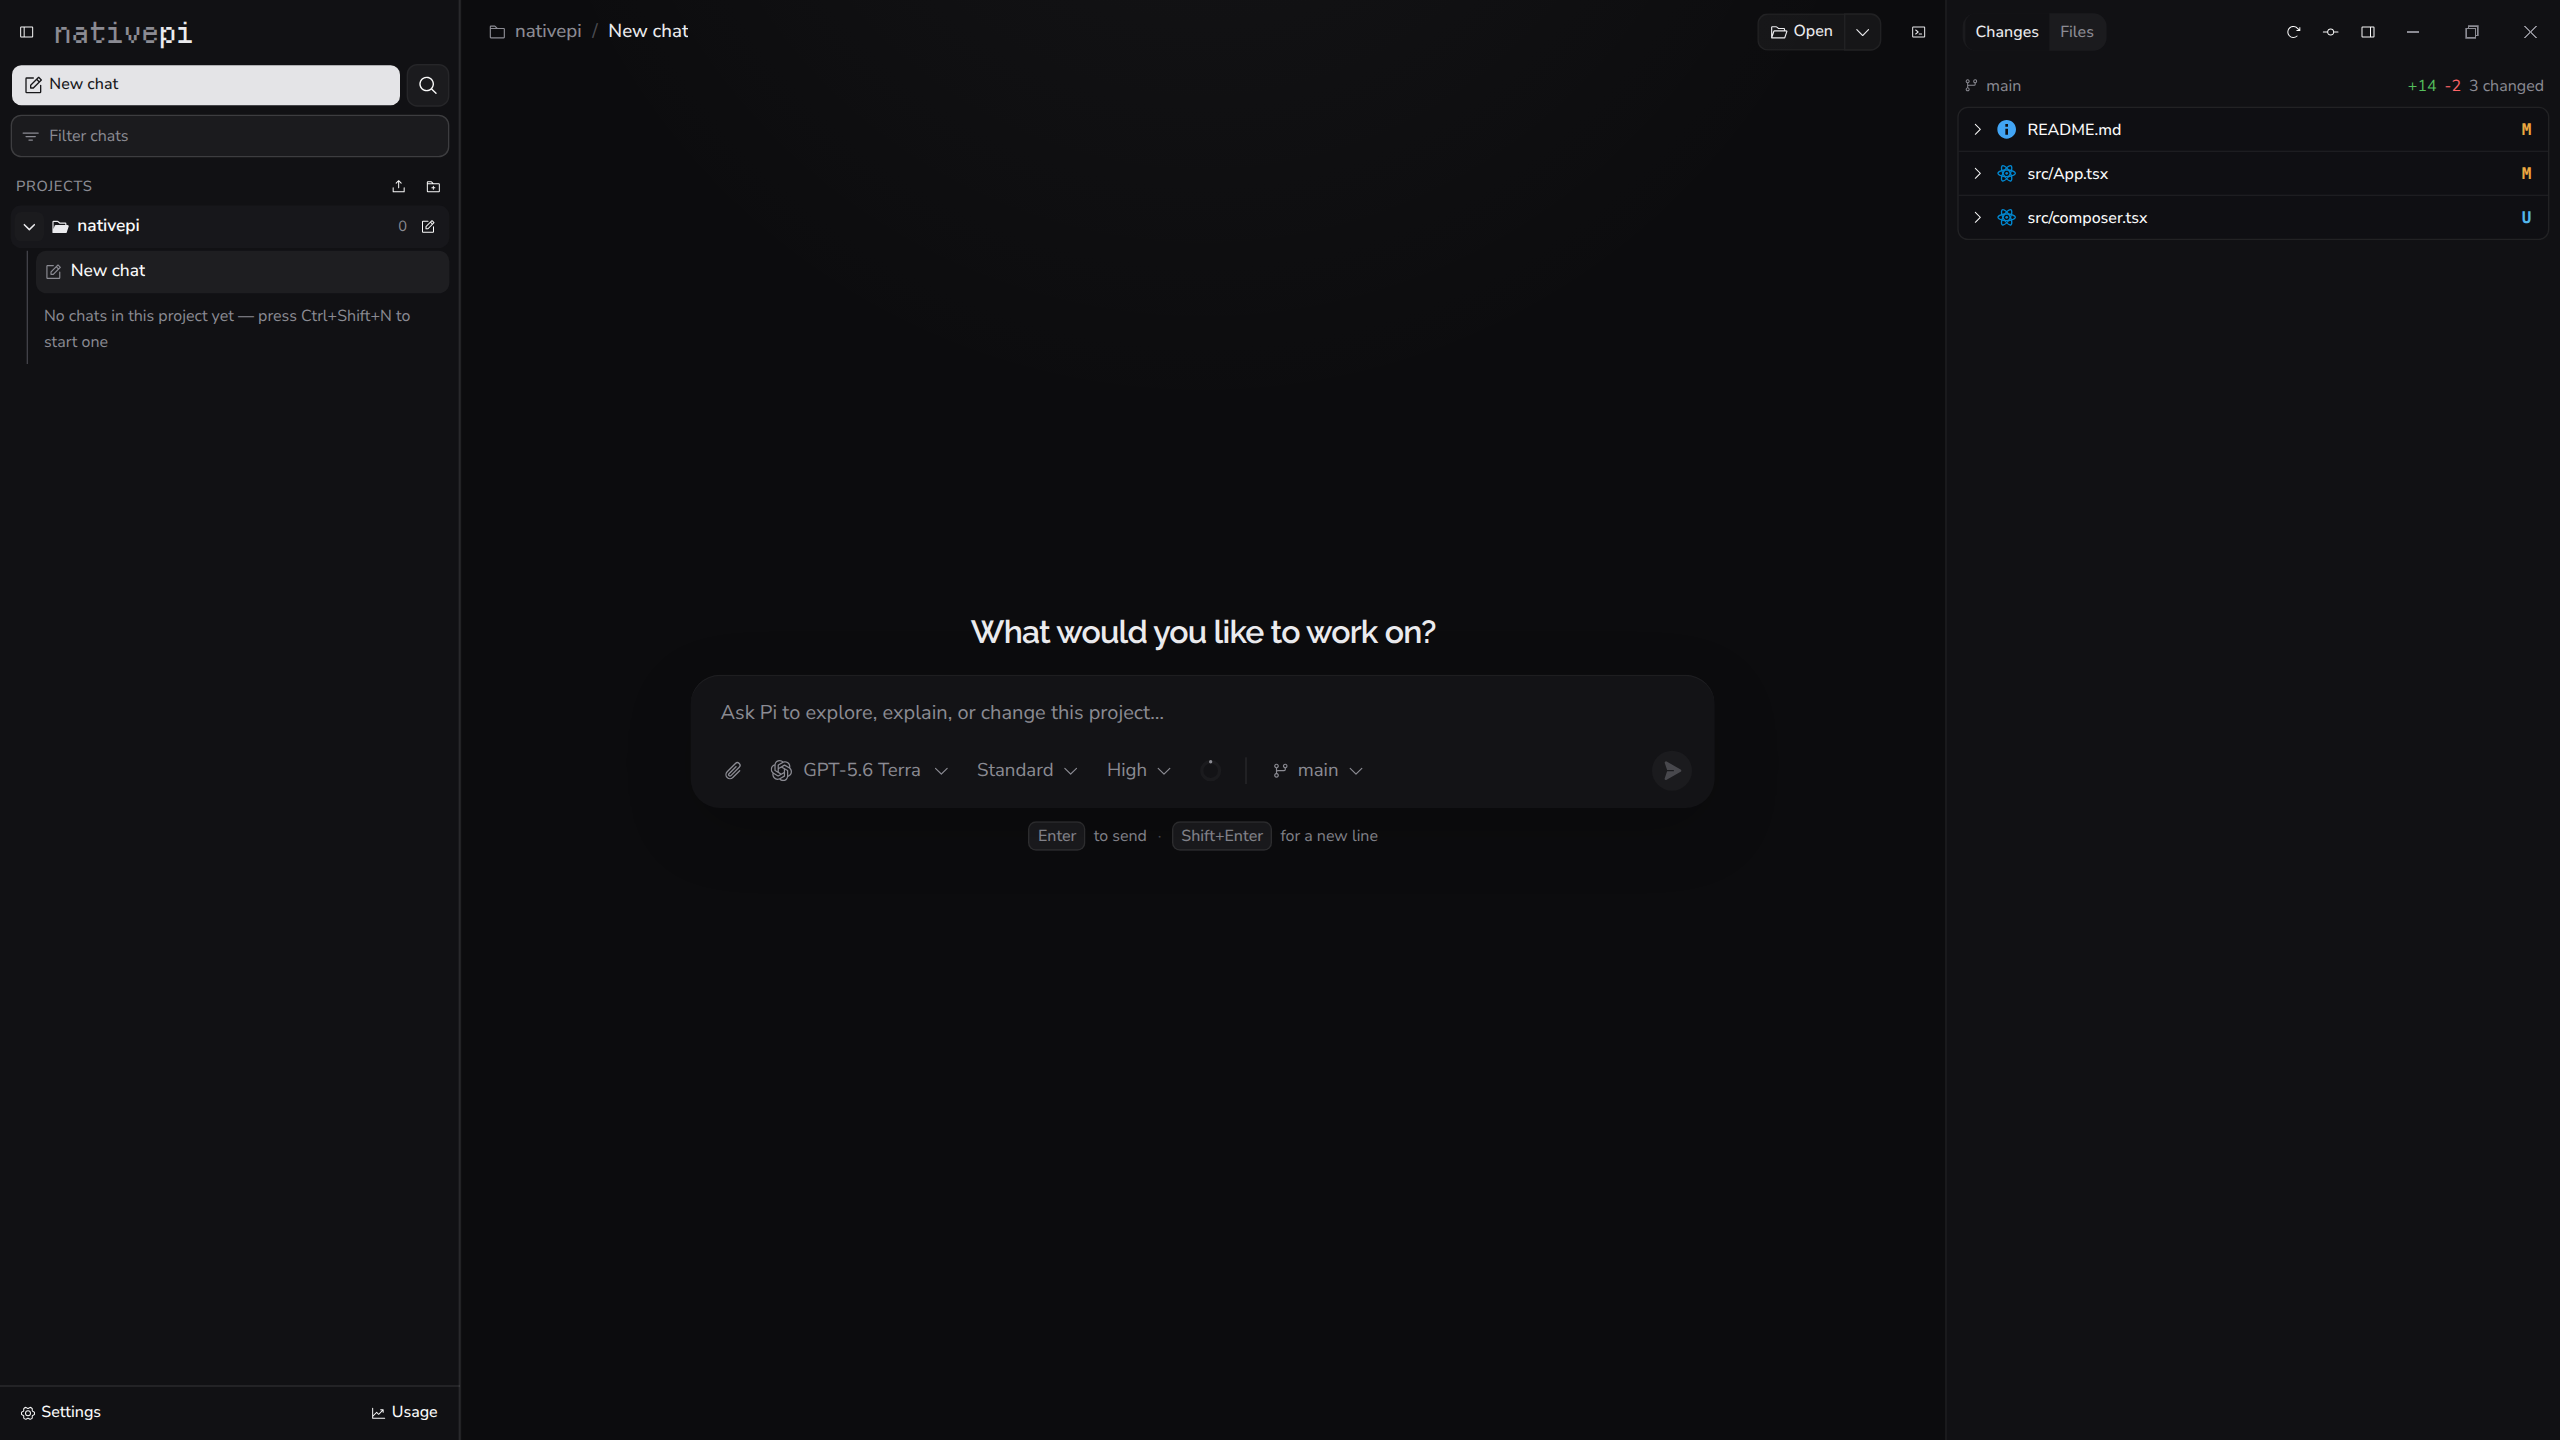
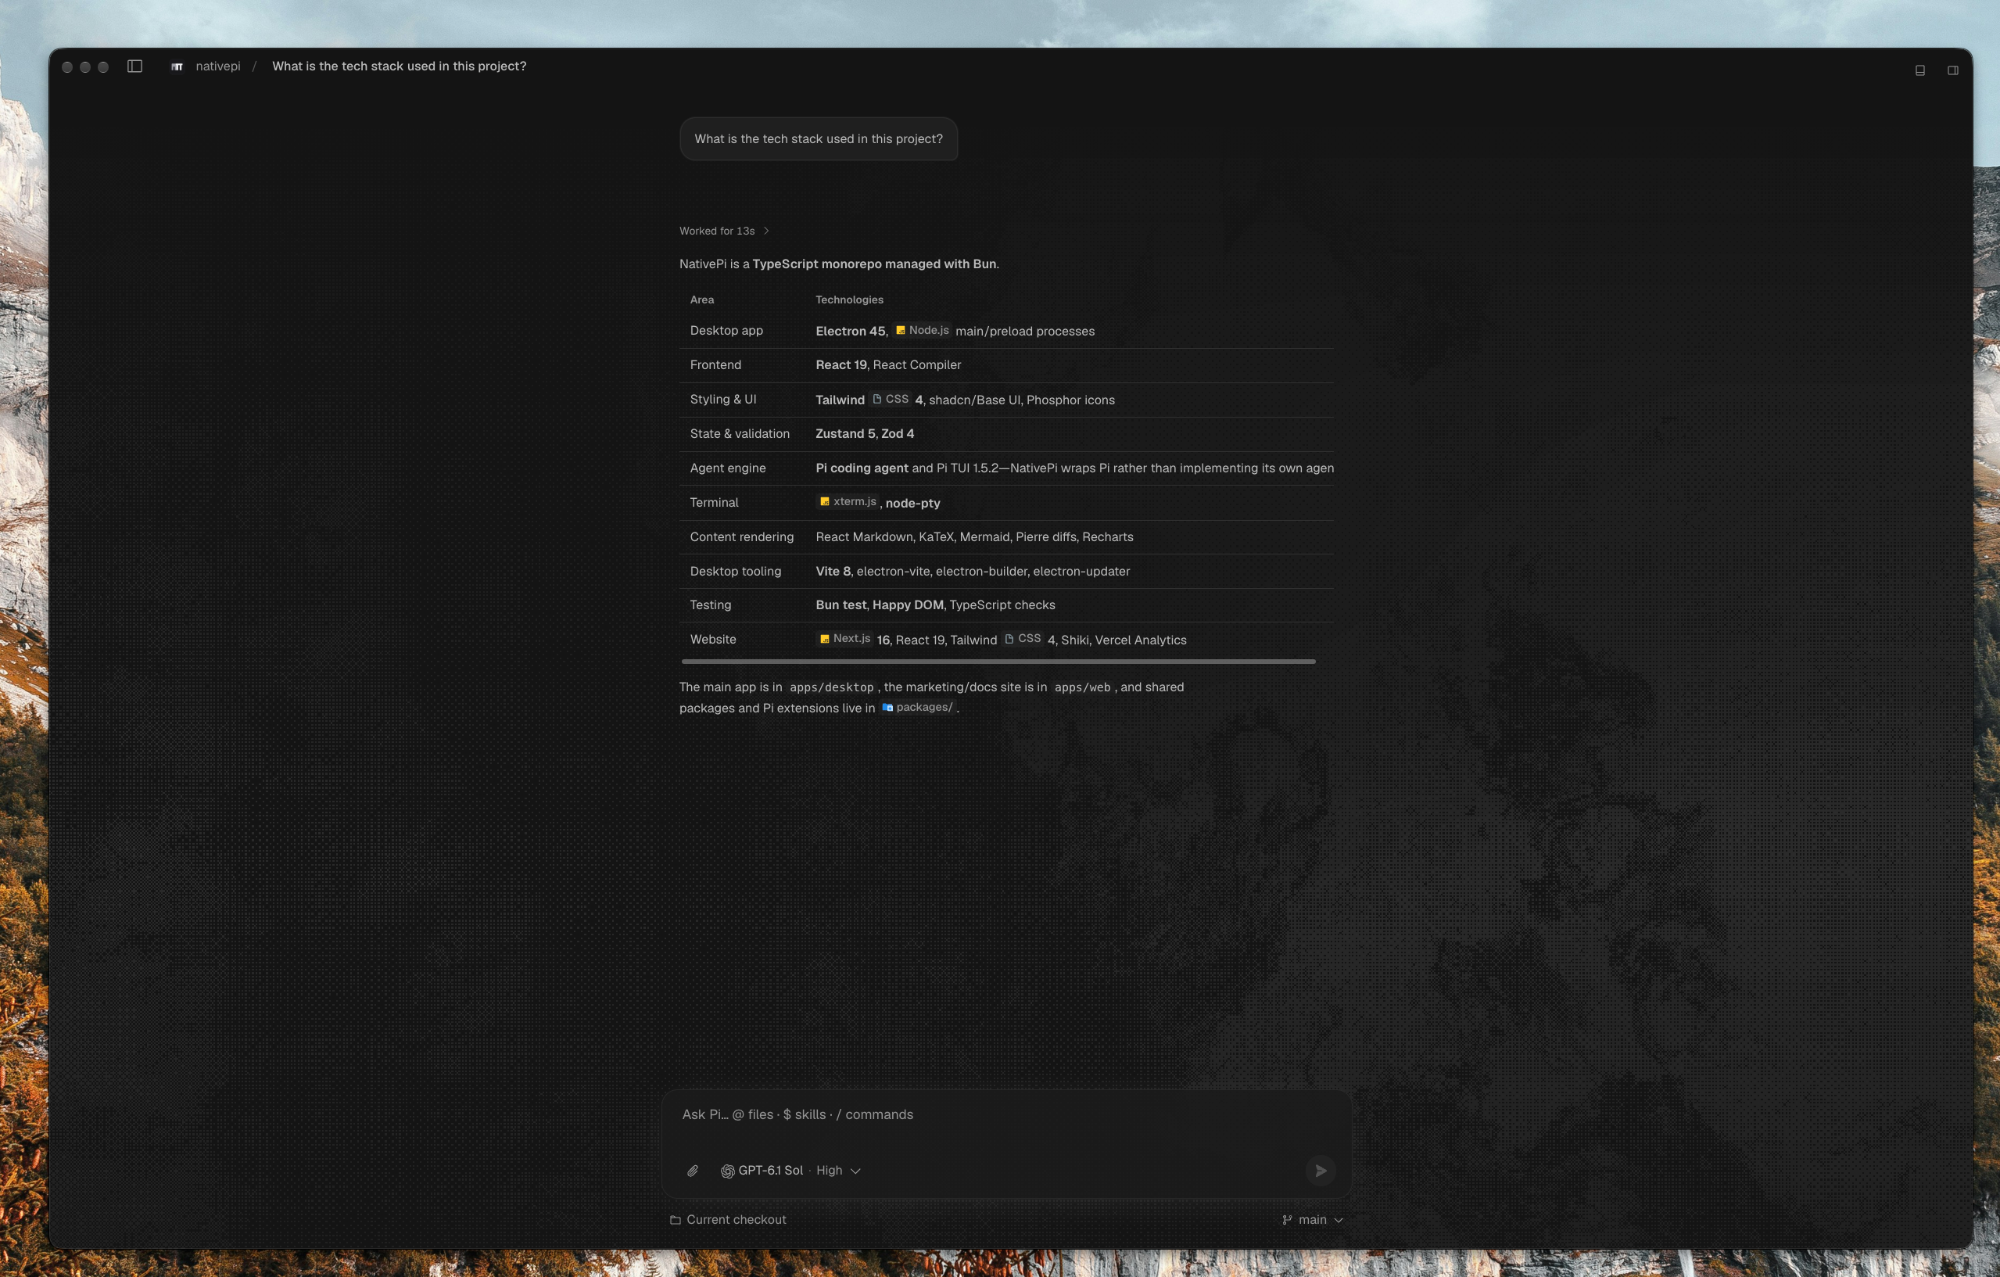
docs: refresh app screenshots and remove social preview

diff --git a/apps/web/components/app/AppWindow.tsx b/apps/web/components/app/AppWindow.tsx
@@ -7,9 +7,9 @@ export function AppWindow({ className }: { className?: string }) {
   return (
     <Image
       src="/app/window.png"
-      alt="The NativePi window: a project sidebar, a new-chat composer with model and branch controls, and a Changes pane listing modified files."
-      width={2560}
-      height={1440}
+      alt="NativePi Work showing a conversation about the project's tech stack, model controls, and a dithered landscape background."
+      width={2000}
+      height={1277}
       preload
       sizes="(min-width: 1408px) 1280px, (min-width: 1280px) calc(100vw - 128px), (min-width: 768px) calc(100vw - 64px), calc(100vw - 40px)"
       className={cn(

diff --git a/README.md b/README.md
@@ -21,7 +21,7 @@ Pi is included. NativePi uses your existing Pi models, credentials,
 configuration, sessions, and third-party extensions; no separate Pi installation
 or NativePi account is required.
 
-![NativePi workspace with project threads, a conversation, the file explorer, and checkout and branch menus](./docs/assets/nativepi-home.png)
+![NativePi Work showing a conversation about the project's tech stack, model controls, and a dithered landscape background](./docs/assets/nativepi-home.png)
 
 ## Install
 
@@ -55,6 +55,13 @@ threads as you go.
 Both use ordinary Pi session files. NativePi adds the interface, built-in tools,
 and instructions through Pi's APIs.
 
+<details>
+<summary>See Chat with an interactive artifact</summary>
+
+![NativePi Chat showing an interactive compound-growth artifact, model controls, and a landscape background](./docs/assets/nativepi-chat.png)
+
+</details>
+
 ## In the workspace
 
 - **Web search and page reading.** Built into Chat and Work through Exa, with no
@@ -78,6 +85,13 @@ and instructions through Pi's APIs.
   terminals, and source control. Inspect local cost and token usage in Settings.
 - **Open it on another device.** Enable token-protected browser access over your
   local network or a temporary public link while the desktop app stays open.
+
+<details>
+<summary>See appearance settings</summary>
+
+![NativePi appearance settings with interface controls, grouped navigation, and built-in color schemes](./docs/assets/nativepi-settings.png)
+
+</details>
 
 ## Pi underneath
 

diff --git a/CHANGELOG.md b/CHANGELOG.md
@@ -38,7 +38,8 @@ and this project adheres to [Semantic Versioning](https://semver.org/spec/v2.0.0
 - Remove the NativePi subagents, subscription usage, and throughput packages and subscription-limit settings. Third-party Pi extensions and local cost/token usage remain supported.
 
 ### Documentation
-- Update the README for Chat and Work, built-in web access and HTML artifacts, source control, split terminals, customization, Pi compatibility, and current download options. Clarify local storage and Exa requests; keep retired-package upgrade notes in `docs/upgrade.md`. Workspace screenshots remain the isolated-demo captures.
+- Update the README for Chat and Work, built-in web access and HTML artifacts, source control, split terminals, customization, Pi compatibility, and current download options. Clarify local storage and Exa requests; keep retired-package upgrade notes in `docs/upgrade.md`.
+- Replace outdated workspace, settings, and website images with current app captures, including an interactive HTML artifact. Remove the old social preview image.
 
 ### Fixed
 - Open saved chats at the latest user message and the start of its answer, keeping short exchanges together and preventing old jump-to-latest requests from overriding the opening position.

diff --git a/apps/web/PRODUCT.md b/apps/web/PRODUCT.md
@@ -154,10 +154,12 @@ Boundaries the site must not blur:
 
 ## Evidence on Hand
 
-- `docs/assets/nativepi-home.png`: one screenshot of the app at an empty-state
-  home view.
+- `docs/assets/nativepi-home.png`: a Work conversation about the project's tech
+  stack, also used in `public/app/window.png`.
+- `docs/assets/nativepi-chat.png`: a Chat conversation with an interactive HTML
+  artifact.
+- `docs/assets/nativepi-settings.png`: the current appearance settings.
 - `docs/assets/nativepi-wordmark.svg`: the wordmark.
-- `docs/assets/nativepi-social-preview.png`: social preview image.
 - `apps/desktop/src/`: the source of truth for implemented behavior.
 - `packages/extension-api/src/index.ts`, `protocol.ts`, `host.ts`, and `ui.ts`:
   the graphical extension contract, channel, host methods, and shared controls.
